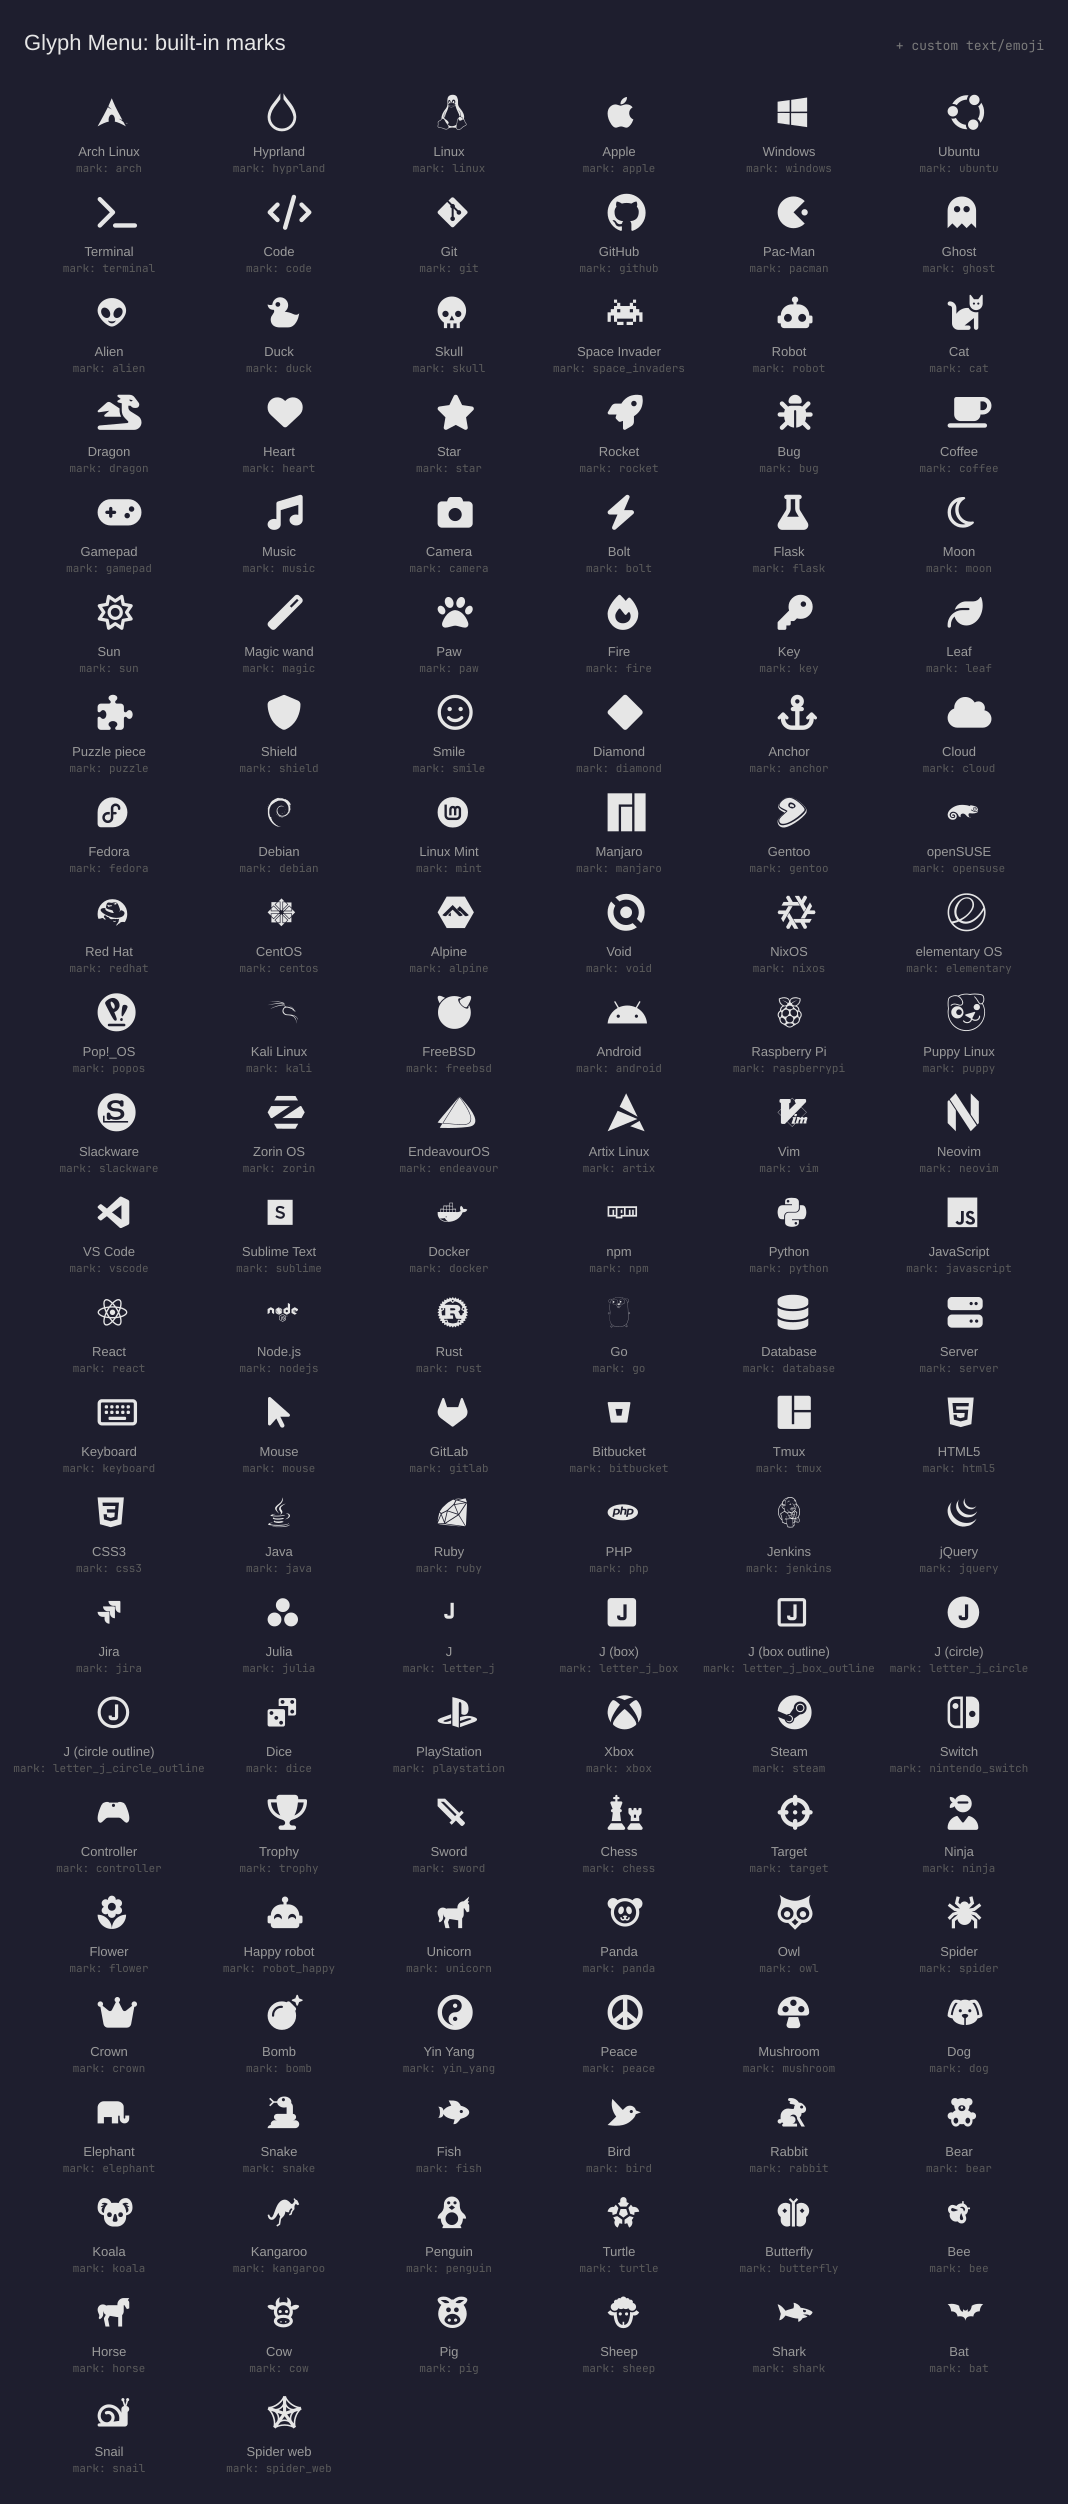
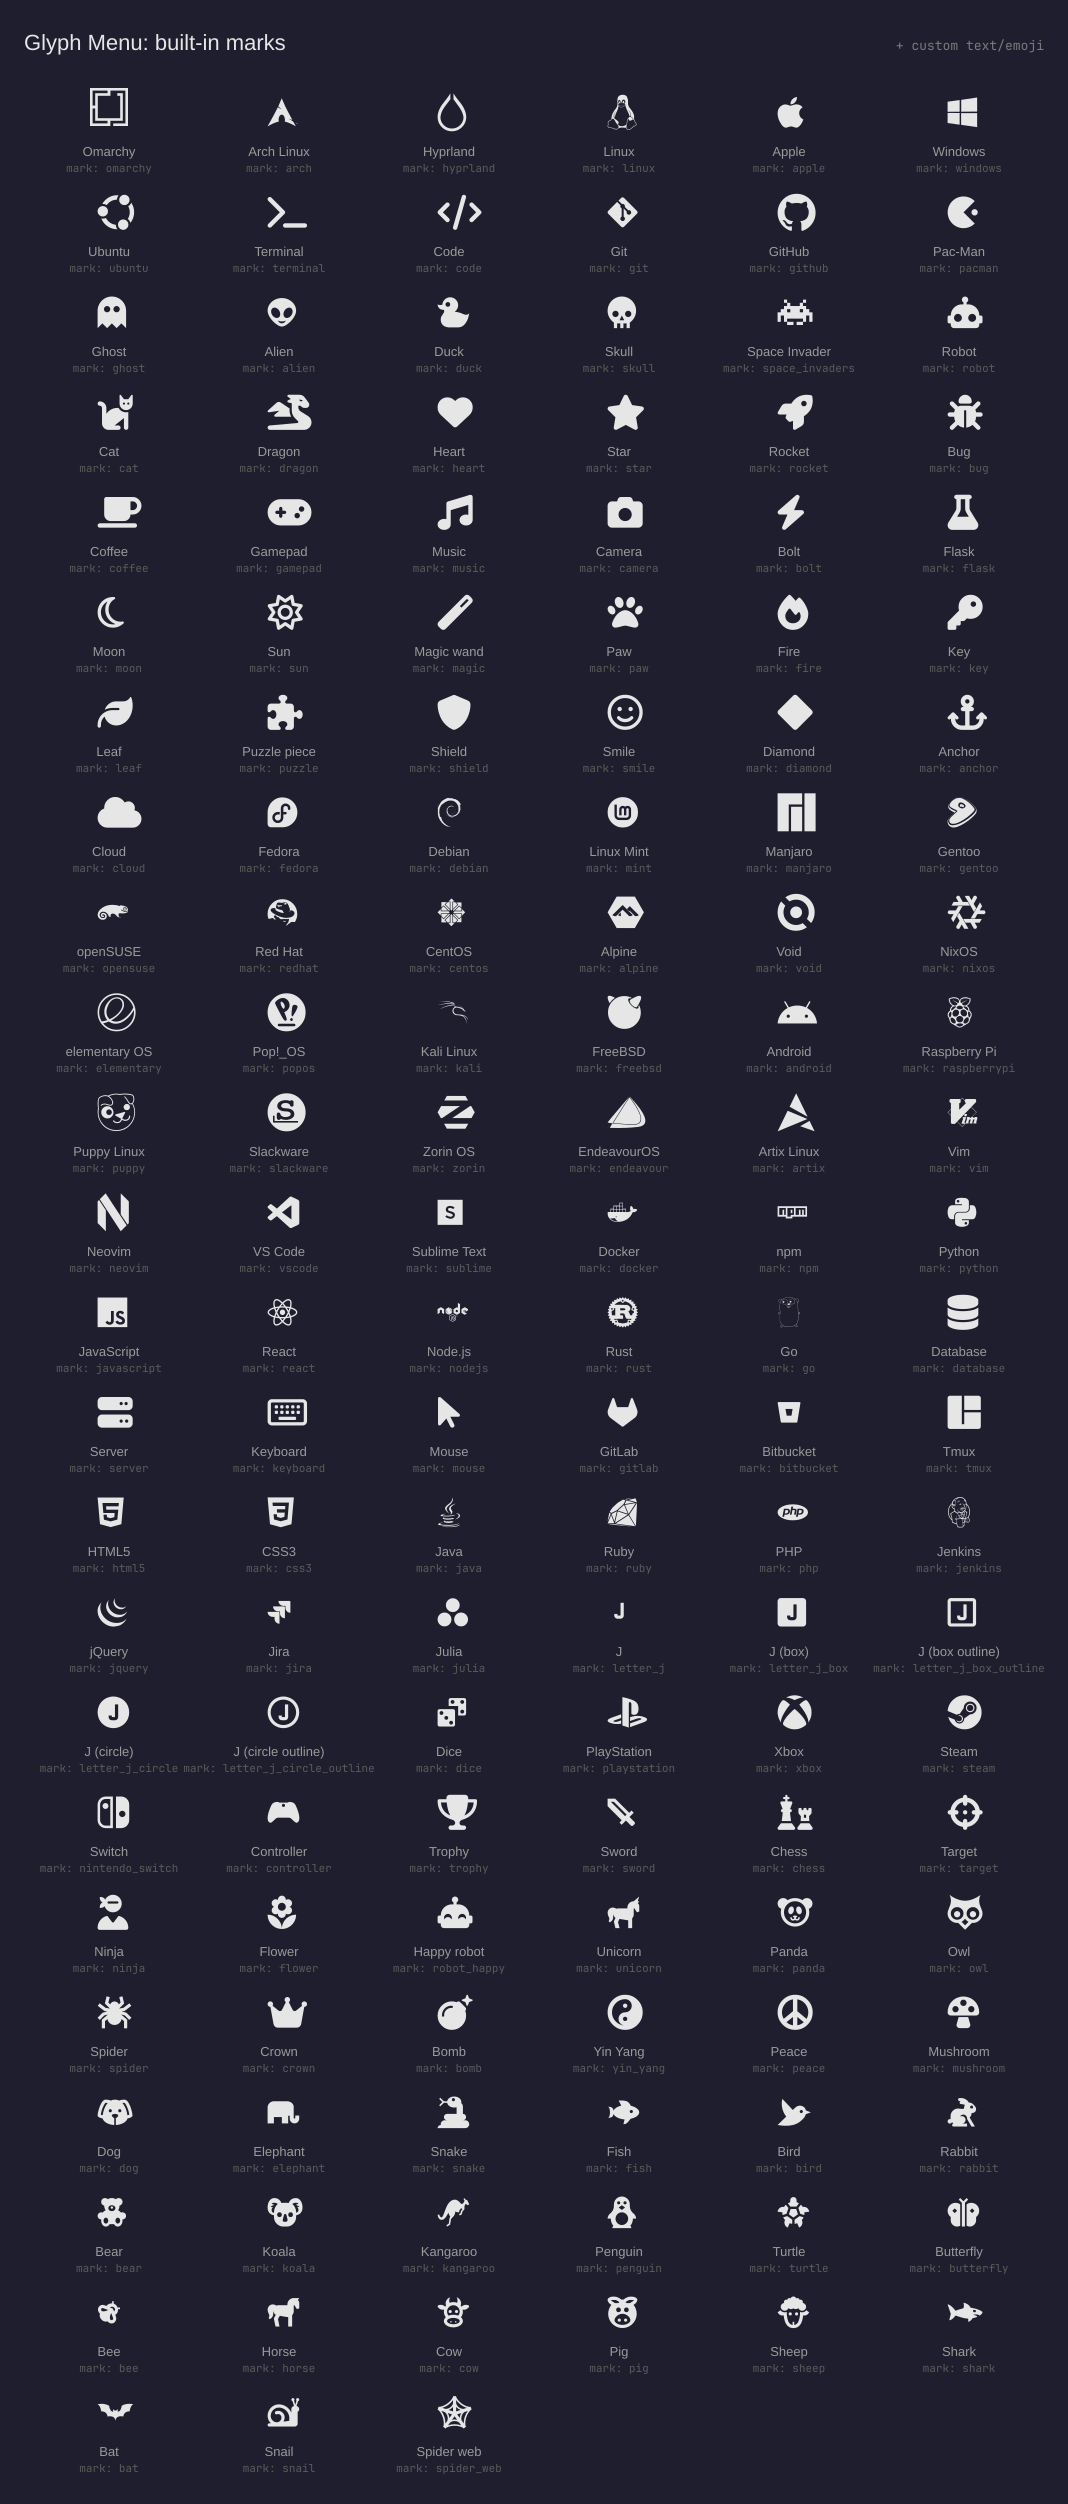
Add the native Omarchy mark
The stock omarchy.menu button draws U+E900 from Omarchy's own bundled
font (/usr/share/fonts/omarchy/omarchy.ttf), not a Nerd Font glyph, so
it was missing from the catalog even though every other built-in mark
is covered.

Glyphs.js gains an optional per-entry `font` field for glyphs that
don't live in the shared Nerd Font; BarWidget.qml lets that override
`nerdFont` for that one entry so it doesn't get swapped onto a font
that doesn't have the glyph. tools/sync-menu.js and
tools/render-preview.js also honor it, so the "Style > Menu Bar"
picker and the README preview render it correctly.

141 marks now (was 140); wording in the README, manifest description,
and SUBMISSION.md updated since not every glyph is a Nerd Font glyph
anymore.

diff --git a/Glyphs.js b/Glyphs.js
@@ -1,8 +1,15 @@
 // Single source of truth for every built-in mark. Each entry is
-// { id, label, code, set }: `id` is the enum value stored in settings,
-// `label` is shown in the marketplace/README, `code` is the Nerd Font
-// codepoint as a hex string, `set` is the Nerd Fonts icon set it comes
-// from (for reference only; the shell just needs the codepoint).
+// { id, label, code, set, font? }: `id` is the enum value stored in
+// settings, `label` is shown in the marketplace/README, `code` is the
+// glyph's codepoint as a hex string, `set` is the icon set it comes from
+// (for reference only; the shell just needs the codepoint). `font` is
+// optional and only needed when a glyph does NOT live in a Nerd Font: it
+// names the font family that codepoint actually renders in, and overrides
+// the `nerdFont` setting for that one entry (see BarWidget.qml). Every
+// entry below is a Nerd Fonts codepoint except "omarchy", which is
+// Omarchy's own private-use glyph from the `omarchy` font it installs
+// itself (/usr/share/fonts/omarchy/omarchy.ttf) — the same mark and font
+// the stock omarchy.menu bar button uses.
 //
 // Codepoints are copied straight from the Nerd Fonts project's
 // glyphnames.json (the data behind nerdfonts.com/cheat-sheet), not
@@ -11,6 +18,7 @@
 // after editing this file to regenerate the manifest's enum options.
 function glyphs() {
   return [
+    { id: "omarchy", label: "Omarchy", code: "e900", set: "omarchy", font: "omarchy" },
     { id: "arch", label: "Arch Linux", code: "e732", set: "dev" },
     { id: "hyprland", label: "Hyprland", code: "f359", set: "linux" },
     { id: "linux", label: "Linux", code: "f17c", set: "fa" },

diff --git a/BarWidget.qml b/BarWidget.qml
@@ -18,7 +18,16 @@ BarWidget {
   readonly property bool isCustom: markId === "custom"
   readonly property string markText: isCustom ? customText : (markEntry ? Glyphs.glyphChar(markEntry.code) : "")
   readonly property string markFontFamily: {
-    if (isCustom && customFont !== "") return customFont
+    if (isCustom) {
+      if (customFont !== "") return customFont
+      if (nerdFont !== "") return nerdFont
+      return root.bar ? root.bar.fontFamily : Style.font.family
+    }
+    // A glyph's own `font` (set only for marks that don't live in a Nerd
+    // Font, e.g. "omarchy") always wins: it names the one family that
+    // actually contains that codepoint, so letting `nerdFont` override it
+    // would just swap a real glyph for a tofu box.
+    if (markEntry && markEntry.font) return markEntry.font
     if (nerdFont !== "") return nerdFont
     return root.bar ? root.bar.fontFamily : Style.font.family
   }

diff --git a/tools/sync-menu.js b/tools/sync-menu.js
@@ -33,7 +33,11 @@ lines.push('  "style.bar.glyph": {"icon":"\\uf03e","label":"Glyph Mark","descrip
 
 for (const g of glyphs()) {
   const icon = String.fromCodePoint(parseInt(g.code, 16))
-  const line = `  "style.bar.glyph.${g.id}": {"icon":${jsonString(icon)},"label":${jsonString(g.label)},"checked":${checkedFor(g.id)},"action":${jsonString(`omarchy bar set ${PLUGIN_ID} mark ${g.id}`)}},`
+  // Glyphs outside a Nerd Font (currently only "omarchy") need their own
+  // iconFont so the row renders through the font that actually has the
+  // codepoint, instead of the menu's own font family.
+  const iconFont = g.font ? `,"iconFont":${jsonString(g.font)}` : ""
+  const line = `  "style.bar.glyph.${g.id}": {"icon":${jsonString(icon)}${iconFont},"label":${jsonString(g.label)},"checked":${checkedFor(g.id)},"action":${jsonString(`omarchy bar set ${PLUGIN_ID} mark ${g.id}`)}},`
   lines.push(line)
 }
 

diff --git a/tools/render-preview.js b/tools/render-preview.js
@@ -38,8 +38,9 @@ const cells = list.map((g, i) => {
   const cx = PAD + col * CELL_W + CELL_W / 2
   const cy = TITLE_H + PAD + row * CELL_H
   const glyph = String.fromCodePoint(parseInt(g.code, 16))
+  const cellFont = g.font || FONT
   return `
-  <text x="${cx}" y="${cy + 46}" text-anchor="middle" font-family="${FONT}" font-size="38" fill="#e6e6e6">${esc(glyph)}</text>
+  <text x="${cx}" y="${cy + 46}" text-anchor="middle" font-family="${cellFont}" font-size="38" fill="#e6e6e6">${esc(glyph)}</text>
   <text x="${cx}" y="${cy + 76}" text-anchor="middle" font-family="sans-serif" font-size="13" fill="#9a9a9a">${esc(g.label)}</text>
   <text x="${cx}" y="${cy + 92}" text-anchor="middle" font-family="monospace" font-size="11" fill="#5a5a5a">mark: ${esc(g.id)}</text>`
 }).join("\n")

diff --git a/README.md b/README.md
@@ -4,9 +4,9 @@ A drop-in replacement for the built-in `omarchy.menu` bar button that lets you
 pick the mark it shows instead of the fixed Omarchy glyph. Click behaviour is
 unchanged: left click opens the Omarchy menu, right click opens a terminal.
 
-Choose from 140+ built-in Nerd Font glyphs (distro logos, coding tools, gaming
-icons, animals, a Pac-Man, a ghost, a dragon, and more), or set any custom
-text, pasted glyph, or emoji.
+Choose from 141+ built-in glyphs — mostly Nerd Font icons (distro logos,
+coding tools, gaming icons, animals, a Pac-Man, a ghost, a dragon, and more),
+plus Omarchy's own mark — or set any custom text, pasted glyph, or emoji.
 
 No runtime dependencies beyond Omarchy itself and a Nerd Font (already part
 of a standard Omarchy install): no network access, no install hooks, no sudo.
@@ -64,7 +64,7 @@ omarchy bar set io.github.smoothpixels.glyph-menu mark pacman
 | `mark` | The glyph. Set to `custom` to use `customText` instead. |
 | `customText` | Any text or character: a pasted glyph, an emoji, a word. |
 | `customFont` | Font family for the custom mark. Empty falls back to `nerdFont`. |
-| `nerdFont` | Font family the built-in marks are drawn in. Empty follows the bar's own font. |
+| `nerdFont` | Font family the built-in Nerd Font marks are drawn in. Empty follows the bar's own font. Ignored by the Omarchy mark, which always uses Omarchy's own font so it renders correctly. |
 | `fontSize` | Pixel size. `0` follows the bar. |
 | `color` | Empty follows the active theme. `accent`, or a `#rrggbb` hex value. |
 

diff --git a/SUBMISSION.md b/SUBMISSION.md
@@ -27,8 +27,9 @@ _(leave blank)_
 
 **Maintainer notes**
 ```
-Replaces omarchy.menu's bar button with a pickable Nerd Font mark (140+
-built-ins or custom text/emoji). Click behaviour is unchanged: left opens
+Replaces omarchy.menu's bar button with a pickable mark (141+ built-ins,
+mostly Nerd Font icons plus Omarchy's own mark, or custom text/emoji).
+Click behaviour is unchanged: left opens
 the Omarchy menu, right opens a terminal, both via the same IPC calls
 omarchy.menu itself uses. No install hooks, no network access, no sudo,
 no runtime dependencies beyond Omarchy itself.
